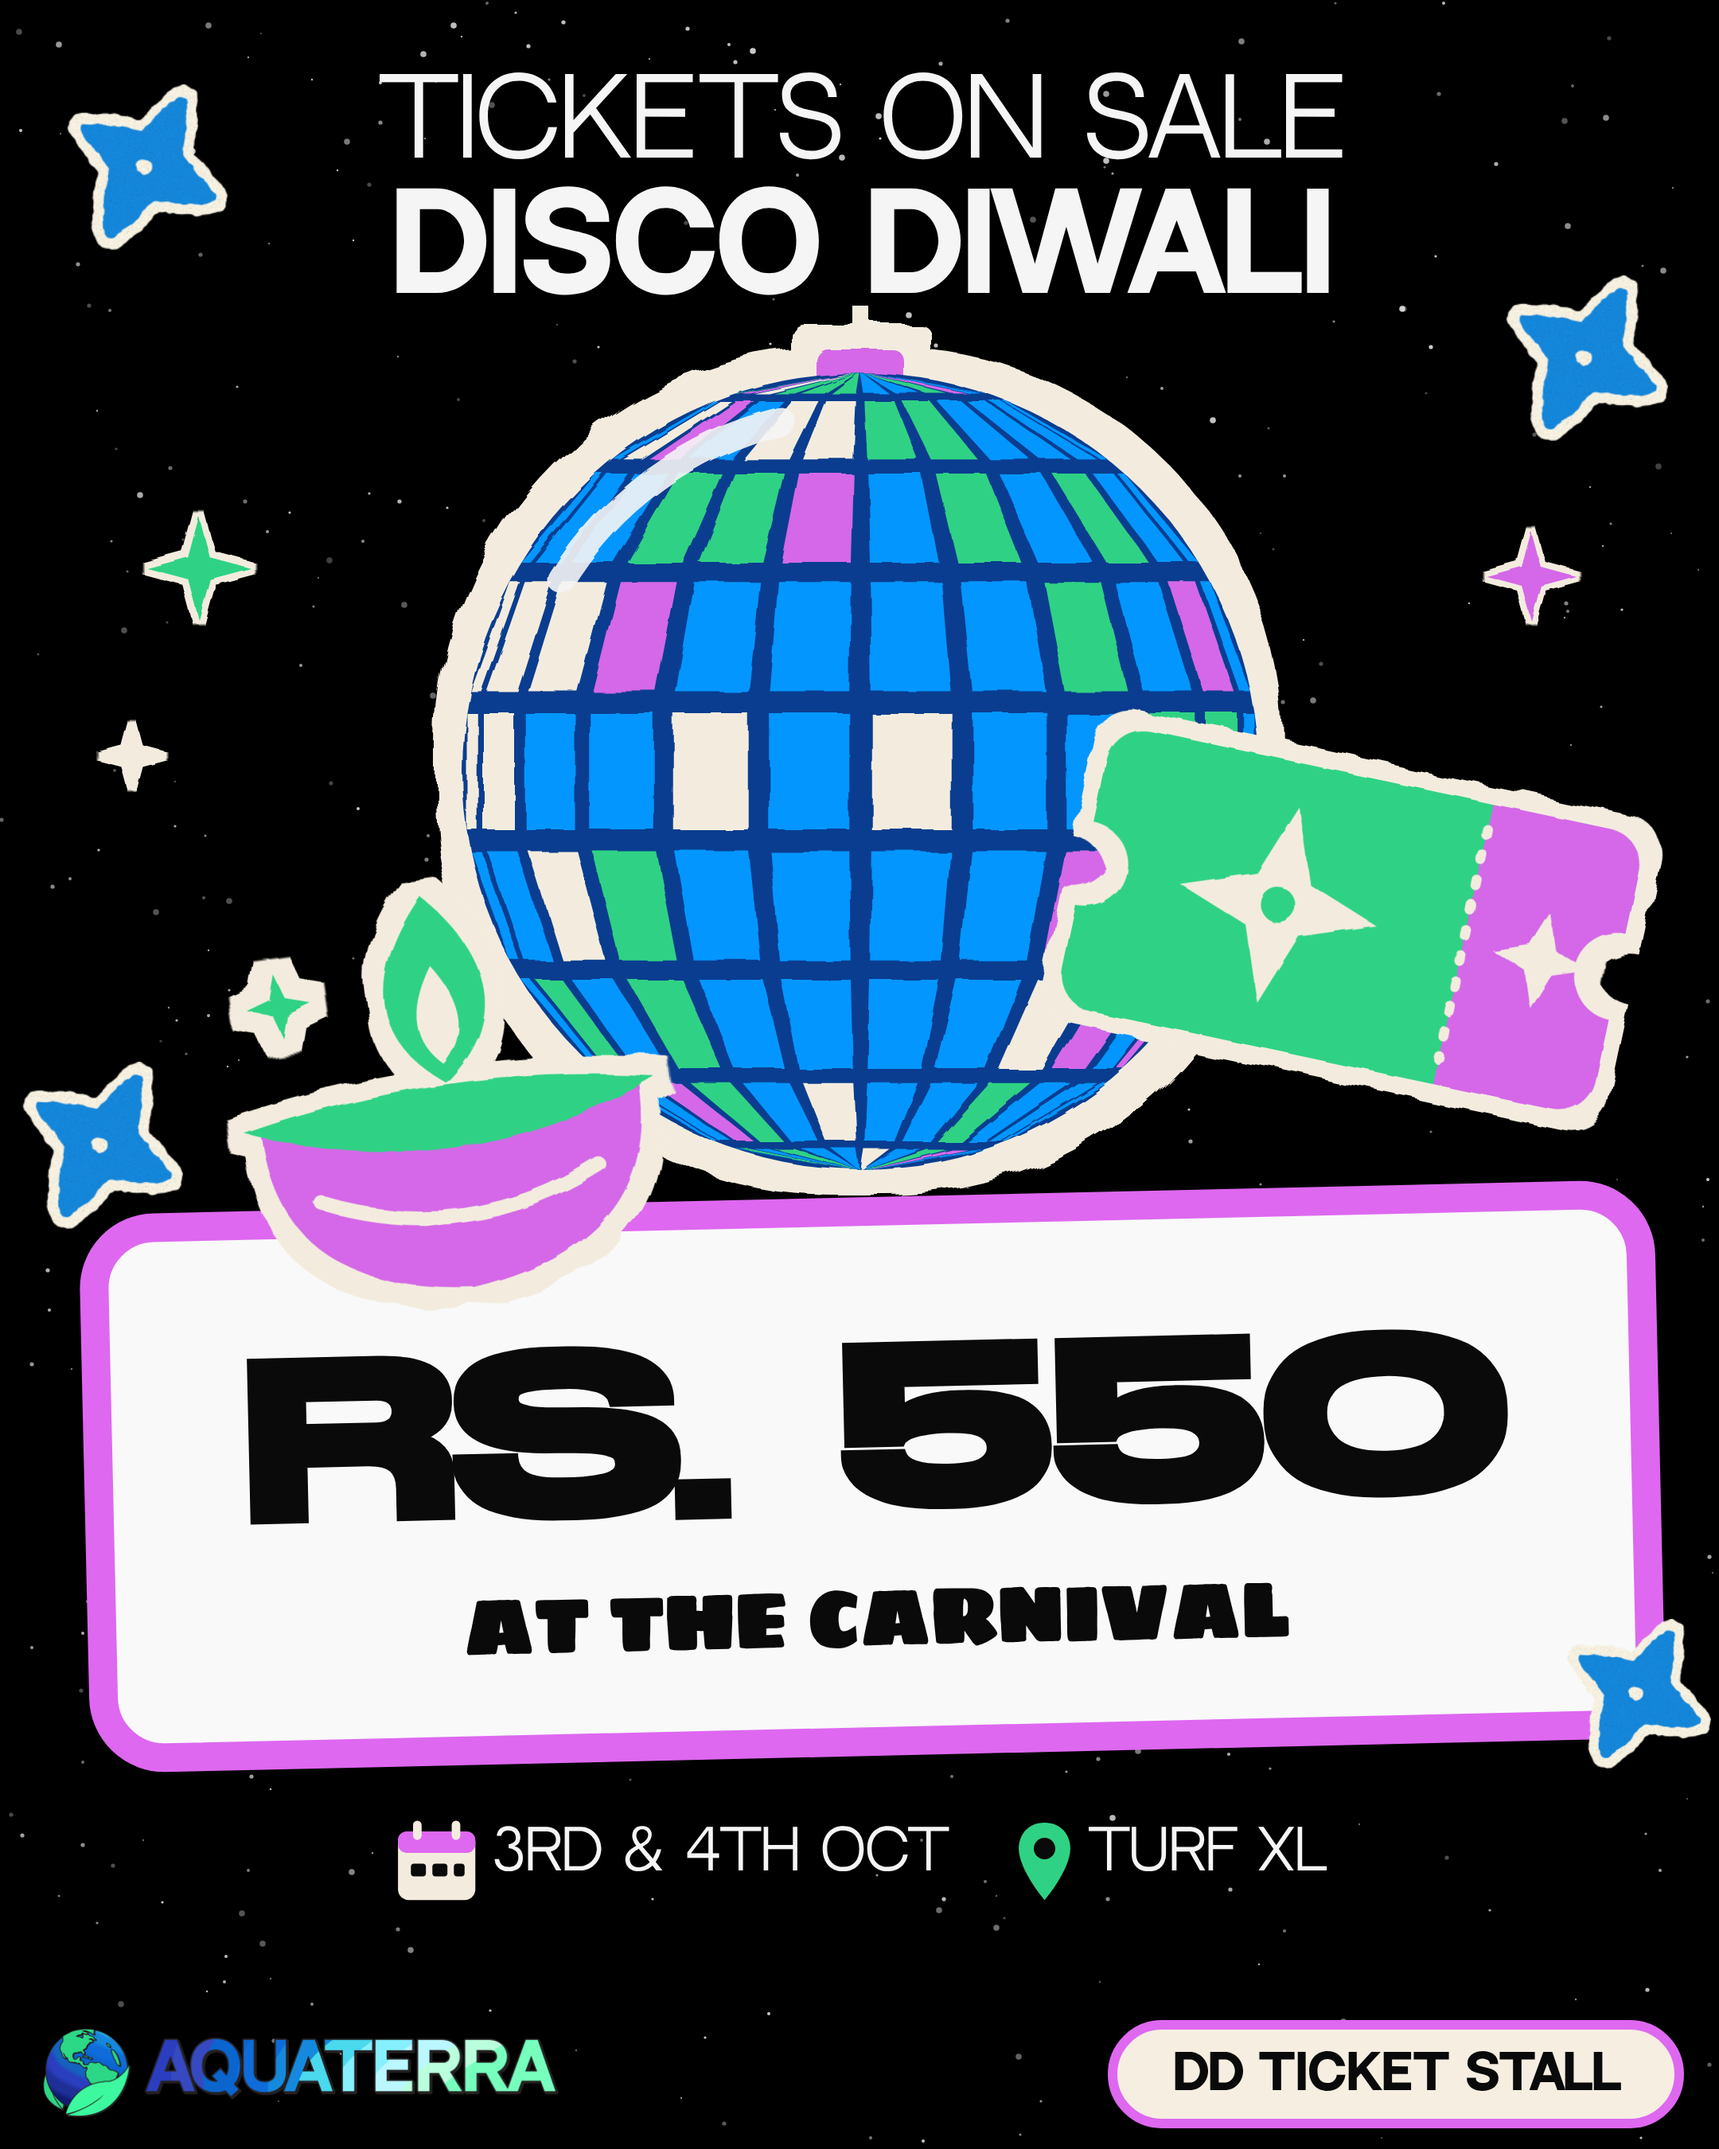
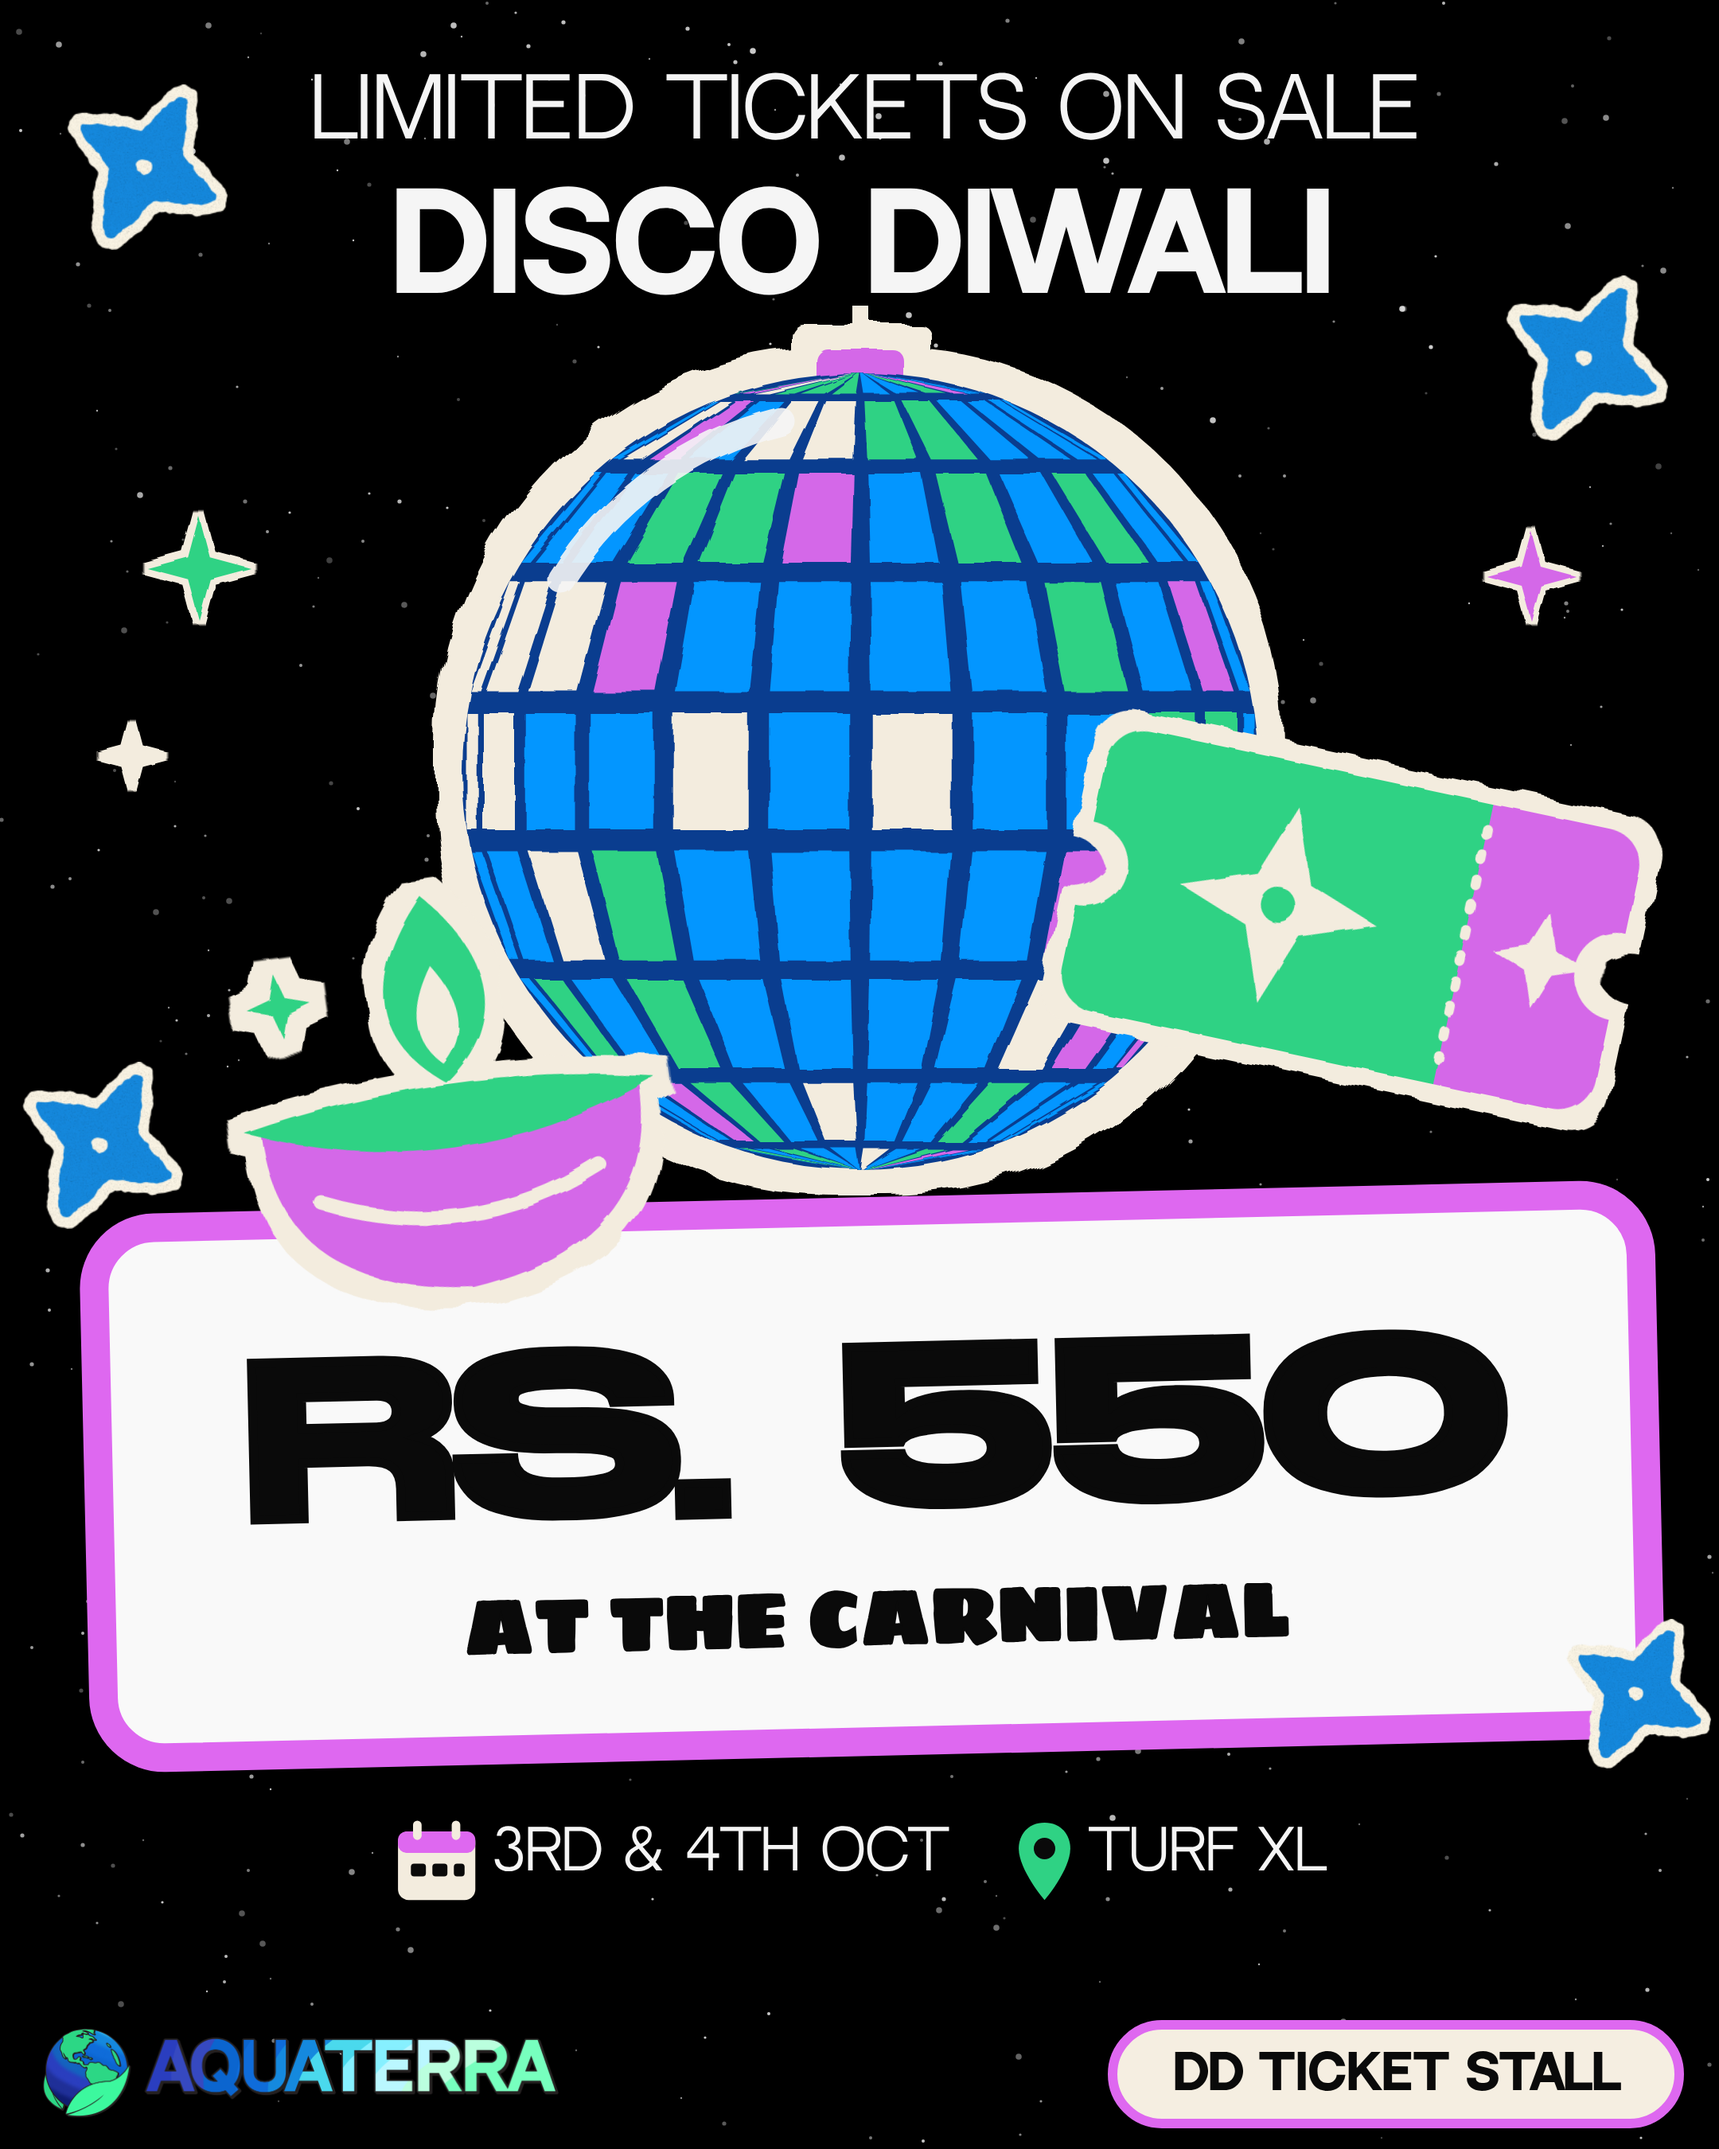
TerraThon DD ticket poster: header reads LIMITED TICKETS ON SALE
Claude-Session: https://claude.ai/code/session_01DgZRtMo5nvj9YgkXVMUcFd

Changed region(s): [[0.1861, 0.0311, 0.8375, 0.0933]]

diff --git a/scratchpad/tt_dd_tickets.py b/scratchpad/tt_dd_tickets.py
@@ -32,7 +32,7 @@ INK, WHITE, CTA_FILL = tt.INK, tt.WHITE, tt.CTA_FILL
 BLUE, GREEN, PURPLE, NAVY = "#0396FF", "#2FD284", "#D468E8", "#0A3D8F"
 
 CAP, BOX = 0.81, -0.02
-CONTENT = dict(head=("TICKETS ON SALE", "DISCO DIWALI"), price="RS. 550", tag="AT THE CARNIVAL",
+CONTENT = dict(head=("LIMITED TICKETS ON SALE", "DISCO DIWALI"), price="RS. 550", tag="AT THE CARNIVAL",
                date="3RD & 4TH OCT", venue="TURF XL", cta="DD TICKET STALL")
 
 
@@ -138,6 +138,7 @@ async def build(c, out, canvas="feed"):
     tw = [r["text_w"] for r in m]
     price_px = 100 * px(1180) / tw[2]
     tag_px = px(72) * min(1.0, px(1000) / tw[3])
+    h1_px = px(96) * min(1.0, 690 / tw[0]); h1_w = tw[0] * h1_px / px(96)
     h2_px = px(120) * min(1.0, px(1230) / tw[1])
 
     rnd = random.Random(7)
@@ -148,10 +149,10 @@ async def build(c, out, canvas="feed"):
 
     # ---- header (two lines, centred) ----
     HB = f'position:absolute;left:0;width:{W}px;text-align:center;color:{WHITE};z-index:6;white-space:nowrap;line-height:1;font-family:var(--d)'
-    hdr = (f'<div class="measure" data-tag="h1" style="{HB};top:{px(70) + dy}px;font-weight:400;font-size:{px(96)}px">{c["head"][0]}</div>'
+    hdr = (f'<div class="measure" data-tag="h1" style="{HB};top:{px(70) + dy}px;font-weight:400;font-size:{h1_px}px">{c["head"][0]}</div>'
            f'<div class="measure" data-tag="h2" style="{HB};top:{px(170) + dy}px;font-weight:900;font-size:{h2_px}px">{c["head"][1]}</div>')
-    el("h1", (W - tw[0]) / 2, px(78), tw[0], px(CAP * 96)); el("h2", (W - tw[1] * h2_px / px(120)) / 2, px(180), tw[1] * h2_px / px(120), px(CAP * 120))
-    hdr = hdr.replace(f'left:0;width:{W}px;text-align:center', f'left:{(W - tw[0]) / 2}px;width:{tw[0] + 4}px;text-align:center', 1)
+    el("h1", (W - h1_w) / 2, px(78), h1_w, h1_px * CAP); el("h2", (W - tw[1] * h2_px / px(120)) / 2, px(180), tw[1] * h2_px / px(120), px(CAP * 120))
+    hdr = hdr.replace(f'left:0;width:{W}px;text-align:center', f'left:{(W - h1_w) / 2}px;width:{h1_w + 4}px;text-align:center', 1)
     hw2 = tw[1] * h2_px / px(120)
     hdr = hdr.replace(f'left:0;width:{W}px;text-align:center', f'left:{(W - hw2) / 2}px;width:{hw2 + 4}px;text-align:center', 1)
 
